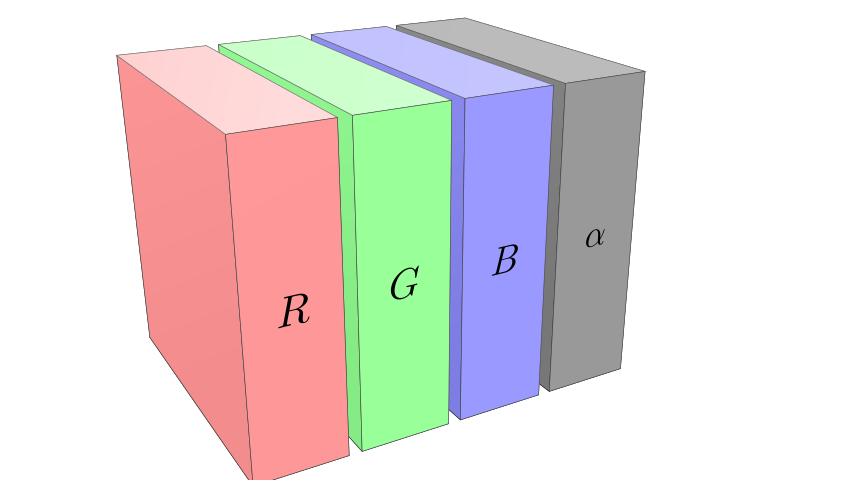
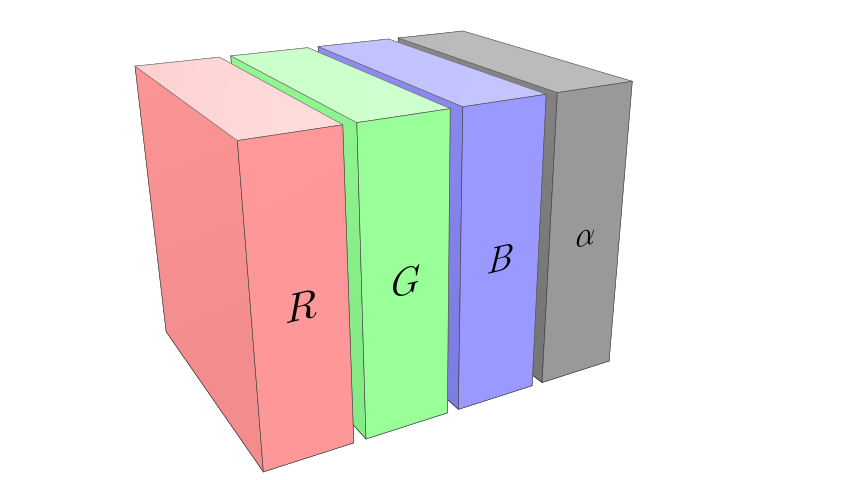
add rgba cube

Changed region(s): [[0.1218, 0.0312, 0.7611, 1.0], [0.4567, 0.5312, 0.4871, 0.625], [0.2131, 0.2188, 0.2436, 0.25]]

diff --git a/manim/rgba_cube.py b/manim/rgba_cube.py
@@ -5,7 +5,7 @@ class RGBACube(ThreeDScene):
     def construct(self):
         self.camera.background_color = WHITE
         self.set_camera_orientation(phi=-PI/8, theta=-PI/2)
-        self.camera.set_zoom(0.85)
+        self.camera.set_zoom(0.8)
         # Define soft colors for RGBA
         soft_red = "#ff9999"
         soft_green = "#99ff99"
